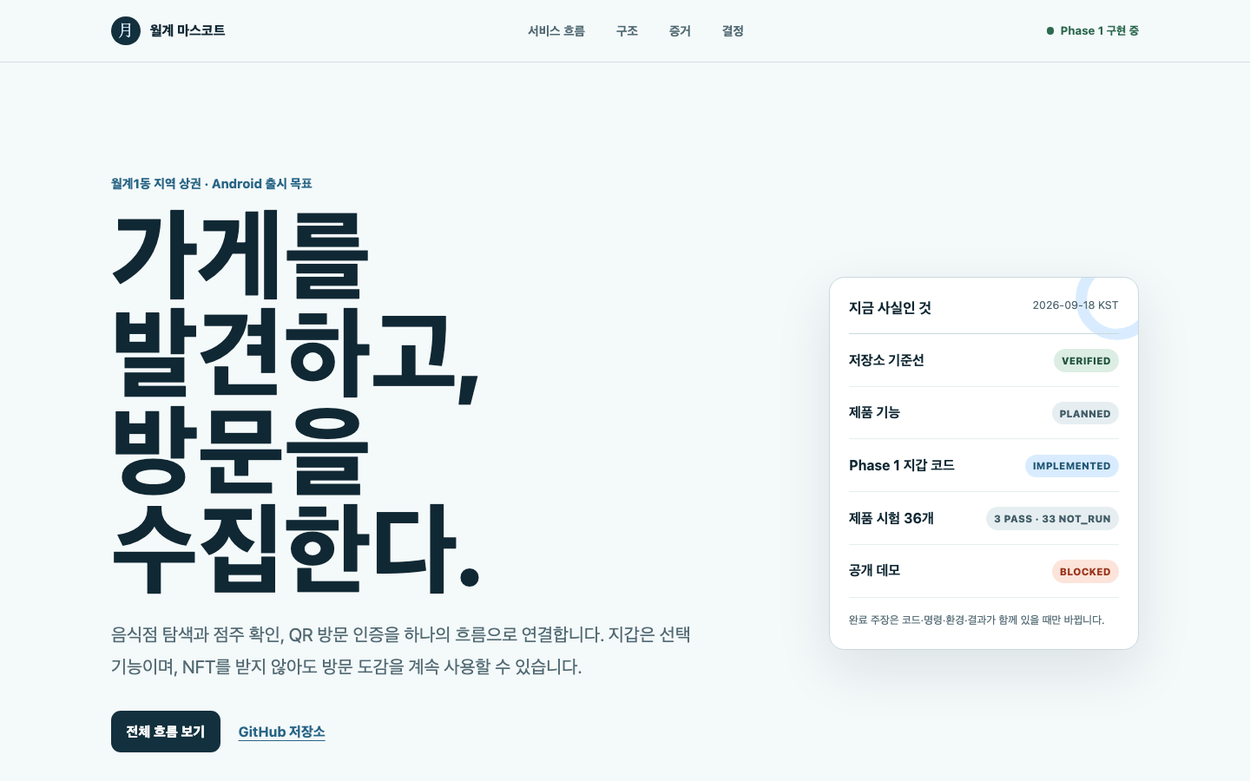
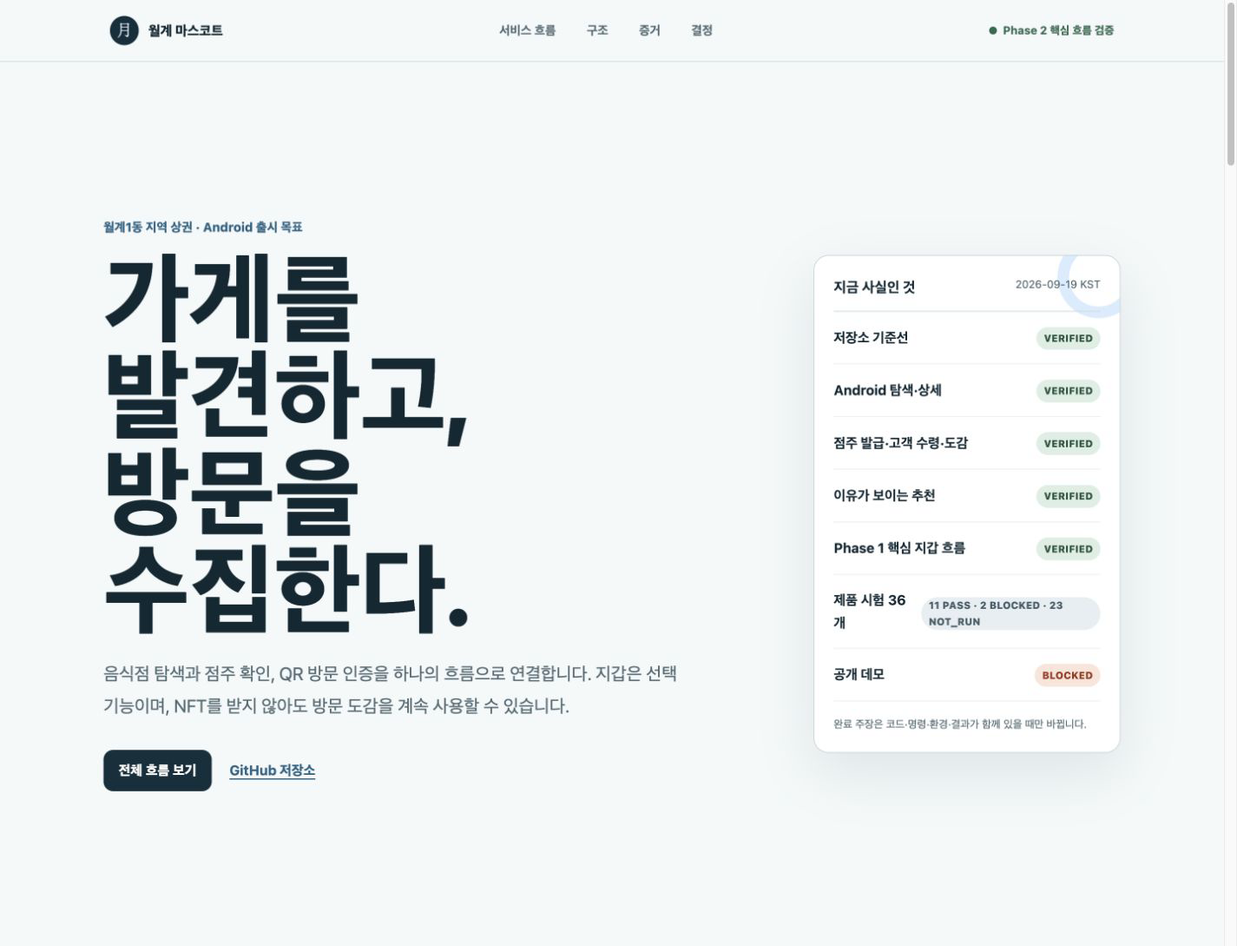
Phase 2 완결 상태를 코드와 같은 근거로 고정한다
추천 실기와 전체 회귀 결과를 README, 평가표, 테스트 원장, 포털과 인수인계에 연결하고 390px 포털 가로 넘침을 제거했다.

Constraint: 현장 실증·카메라 QR·외부 HTTPS·Play 배포는 완료로 표시하지 않는다

Confidence: high

Scope-risk: narrow

Directive: Phase 3는 새 사용자 범위 승인 전 시작하지 않는다

Tested: bootstrap, Korean PR, site structure/accessibility, secret scans, 390x844 in-app browser overflow metrics

Not-tested: public portal URL and real field behavior

diff --git a/docs/index.html b/docs/index.html
@@ -30,7 +30,7 @@
         <a href="#evidence">증거</a>
         <a href="#decisions">결정</a>
       </nav>
-      <span class="header-state"><span aria-hidden="true"></span> Phase 2 구현 중</span>
+      <span class="header-state"><span aria-hidden="true"></span> Phase 2 핵심 흐름 검증</span>
     </header>
 
     <main id="main-content">
@@ -55,7 +55,7 @@
         <aside class="truth-board" aria-labelledby="truth-title">
           <div class="truth-heading">
             <h2 id="truth-title">지금 사실인 것</h2>
-            <span>2026-09-18 KST</span>
+            <span>2026-09-19 KST</span>
           </div>
           <dl>
             <div>
@@ -63,16 +63,16 @@
               <dd><span class="status status-verified">VERIFIED</span></dd>
             </div>
             <div>
-              <dt>점포 카탈로그</dt>
-              <dd><span class="status status-implemented">IMPLEMENTED</span></dd>
+              <dt>Android 탐색·상세</dt>
+              <dd><span class="status status-verified">VERIFIED</span></dd>
             </div>
             <div>
-              <dt>점주·직원 권한 API</dt>
-              <dd><span class="status status-implemented">IMPLEMENTED</span></dd>
+              <dt>점주 발급·고객 수령·도감</dt>
+              <dd><span class="status status-verified">VERIFIED</span></dd>
             </div>
             <div>
-              <dt>일회용 QR 슬롯 API</dt>
-              <dd><span class="status status-implemented">IMPLEMENTED</span></dd>
+              <dt>이유가 보이는 추천</dt>
+              <dd><span class="status status-verified">VERIFIED</span></dd>
             </div>
             <div>
               <dt>Phase 1 핵심 지갑 흐름</dt>
@@ -136,7 +136,7 @@
           <div class="architecture-lane lane-client">
             <h3>사람이 쓰는 화면</h3>
             <div class="node primary-node">Android 앱<small>탐색 · QR · 도감</small></div>
-            <div class="node">점주·직원 웹<small>이용 확인 · QR 발급</small></div>
+            <div class="node">점주·직원 Android 데모<small>권한 확인 · 1회 코드 발급</small></div>
             <div class="node wallet-node">외부 지갑 앱<small>주소 확인 서명만</small></div>
           </div>
           <div class="architecture-lane lane-cloud">
@@ -169,10 +169,13 @@
           <article class="evidence-primary">
             <span class="evidence-number">main</span>
             <h3>검증된 기준선</h3>
-            <p>Phase 0 기준선과 Phase 1 지갑 코드가 CI를 통과해 main에 반영됐습니다.</p>
+            <p>Phase 0 기준선, Phase 1 지갑, Phase 2 탐색·수령·도감 코드가 CI를 통과해 main에 반영됐습니다.</p>
             <div class="evidence-links">
               <a href="https://github.com/2026-KW-HACKATHON/27_MassCOM/pull/2" rel="noreferrer">PR #2</a>
               <a href="https://github.com/2026-KW-HACKATHON/27_MassCOM/pull/10" rel="noreferrer">PR #10</a>
+              <a href="https://github.com/2026-KW-HACKATHON/27_MassCOM/pull/45" rel="noreferrer">PR #45</a>
+              <a href="https://github.com/2026-KW-HACKATHON/27_MassCOM/pull/46" rel="noreferrer">PR #46</a>
+              <a href="https://github.com/2026-KW-HACKATHON/27_MassCOM/pull/47" rel="noreferrer">PR #47</a>
             </div>
           </article>
           <article>

diff --git a/docs/assets/project.css b/docs/assets/project.css
@@ -759,6 +759,8 @@ footer p {
   }
 
   .site-header {
+    grid-template-columns: minmax(0, 1fr) minmax(0, 8rem);
+    gap: 0.5rem;
     min-height: 4rem;
     padding-inline: 0.7rem;
   }
@@ -769,7 +771,34 @@ footer p {
   }
 
   .header-state {
+    min-width: 0;
+    width: auto;
+    justify-self: end;
+    justify-content: flex-end;
+    font-size: 0;
+    line-height: 1.25;
+    text-align: right;
+  }
+
+  .header-state::after {
+    content: "P2 검증";
     font-size: 0.72rem;
+    white-space: nowrap;
+  }
+
+  .truth-board dl > div {
+    gap: 0.55rem;
+    align-items: flex-start;
+  }
+
+  .truth-board dt {
+    min-width: 0;
+    overflow-wrap: anywhere;
+    line-height: 1.45;
+  }
+
+  .truth-board dd {
+    flex: none;
   }
 
   h1 {

diff --git a/docs/EVALUATION_MAP.md b/docs/EVALUATION_MAP.md
@@ -1,18 +1,18 @@
 # 평가 항목 증거 연결
 
-현재는 Phase 2 방문·고정 보상권 기반을 구현 중입니다. 존재하지 않는 실증·발표 증거를 만들지 않으며 `생성 전`, `없음`, `NOT_RUN`도 현재 상태를 추적하는 값입니다.
+Phase 2 핵심 loopback DEMO 흐름은 구현·검증됐습니다. 존재하지 않는 현장 실증·발표 증거를 만들지 않으며 `생성 전`, `없음`, `NOT_RUN`도 현재 상태를 추적하는 값입니다.
 
 | 단계 | 항목 | 배점 | 요구사항 | Issue | PR | 코드·문서 | 테스트 | 실증 | 발표 자료 | 상태 |
 | --- | --- | ---: | --- | --- | --- | --- | --- | --- | --- | --- |
-| 중간 | 논리의 연결성 | 30 | `RQ-001`~`RQ-006` | [#13](https://github.com/2026-KW-HACKATHON/27_MassCOM/issues/13), [#17](https://github.com/2026-KW-HACKATHON/27_MassCOM/issues/17), [#19](https://github.com/2026-KW-HACKATHON/27_MassCOM/issues/19), [#21](https://github.com/2026-KW-HACKATHON/27_MassCOM/issues/21), [#44](https://github.com/2026-KW-HACKATHON/27_MassCOM/issues/44) | [#14](https://github.com/2026-KW-HACKATHON/27_MassCOM/pull/14), [#18](https://github.com/2026-KW-HACKATHON/27_MassCOM/pull/18), [#20](https://github.com/2026-KW-HACKATHON/27_MassCOM/pull/20), [#22](https://github.com/2026-KW-HACKATHON/27_MassCOM/pull/22), [#45](https://github.com/2026-KW-HACKATHON/27_MassCOM/pull/45), [#46](https://github.com/2026-KW-HACKATHON/27_MassCOM/pull/46) | 카탈로그·권한·claim slot·방문·보상·도감 API와 Android 탐색→수령→도감 | Q01·Q02·Q03·Q05·R01·R03·중복 수령 `PASS`, 모바일 40개·Android 전체 흐름 PASS | Android DEMO 목록·상세·수령·도감 증거, 인터뷰·행동 자료 없음 | 3분 원고 생성 전 | `IN_PROGRESS` |
+| 중간 | 논리의 연결성 | 30 | `RQ-001`~`RQ-006` | [#13](https://github.com/2026-KW-HACKATHON/27_MassCOM/issues/13), [#17](https://github.com/2026-KW-HACKATHON/27_MassCOM/issues/17), [#19](https://github.com/2026-KW-HACKATHON/27_MassCOM/issues/19), [#21](https://github.com/2026-KW-HACKATHON/27_MassCOM/issues/21), [#44](https://github.com/2026-KW-HACKATHON/27_MassCOM/issues/44) | [#14](https://github.com/2026-KW-HACKATHON/27_MassCOM/pull/14), [#18](https://github.com/2026-KW-HACKATHON/27_MassCOM/pull/18), [#20](https://github.com/2026-KW-HACKATHON/27_MassCOM/pull/20), [#22](https://github.com/2026-KW-HACKATHON/27_MassCOM/pull/22), [#45](https://github.com/2026-KW-HACKATHON/27_MassCOM/pull/45), [#46](https://github.com/2026-KW-HACKATHON/27_MassCOM/pull/46), [#47](https://github.com/2026-KW-HACKATHON/27_MassCOM/pull/47) | 카탈로그·권한·claim slot·방문·보상·도감·추천 API와 Android 탐색→수령→도감→다음 탐색 | Q01·Q02·Q03·Q05·R01·R03·중복 수령·추천 정책 `PASS`, 모바일 43개·Android 전체 흐름 PASS | Android DEMO 목록·상세·수령·도감·추천 증거, 인터뷰·행동 자료 없음 | 3분 원고 생성 전 | `IN_PROGRESS` |
 | 중간 | 실현 & 상용화 가능성 | 20 | `RQ-007`~`RQ-015` | [#9](https://github.com/2026-KW-HACKATHON/27_MassCOM/issues/9), [#23](https://github.com/2026-KW-HACKATHON/27_MassCOM/issues/23), [#25](https://github.com/2026-KW-HACKATHON/27_MassCOM/issues/25), [#27](https://github.com/2026-KW-HACKATHON/27_MassCOM/issues/27), [#31](https://github.com/2026-KW-HACKATHON/27_MassCOM/issues/31), [#33](https://github.com/2026-KW-HACKATHON/27_MassCOM/issues/33), [#35](https://github.com/2026-KW-HACKATHON/27_MassCOM/issues/35), [#40](https://github.com/2026-KW-HACKATHON/27_MassCOM/issues/40), [#41](https://github.com/2026-KW-HACKATHON/27_MassCOM/issues/41) | [#10](https://github.com/2026-KW-HACKATHON/27_MassCOM/pull/10), [#24](https://github.com/2026-KW-HACKATHON/27_MassCOM/pull/24), [#26](https://github.com/2026-KW-HACKATHON/27_MassCOM/pull/26), [#28](https://github.com/2026-KW-HACKATHON/27_MassCOM/pull/28), [#32](https://github.com/2026-KW-HACKATHON/27_MassCOM/pull/32), [#34](https://github.com/2026-KW-HACKATHON/27_MassCOM/pull/34), [#38](https://github.com/2026-KW-HACKATHON/27_MassCOM/pull/38), [#42](https://github.com/2026-KW-HACKATHON/27_MassCOM/pull/42) | `apps/mobile`, `apps/api`, `docs/PHASE1_WALLET_LINK.md`, `docs/REOWN_PATCH.md` | W01·W02·W03·W06·W09 `PASS`, W04·W05 `BLOCKED` | MetaMask 핵심·W06 PASS, Account 1/2 검증 격리 PASS, 동일 세션·스마트지갑 환경 BLOCKED | 개인정보를 제외한 JSON 실행 증거 | `IN_PROGRESS` |
-| 중간 | 기획 문서의 재현 가능성 | 20 | `RQ-016`~`RQ-018` | [#1](https://github.com/2026-KW-HACKATHON/27_MassCOM/issues/1), [#13](https://github.com/2026-KW-HACKATHON/27_MassCOM/issues/13), [#44](https://github.com/2026-KW-HACKATHON/27_MassCOM/issues/44) | [#2](https://github.com/2026-KW-HACKATHON/27_MassCOM/pull/2), [#14](https://github.com/2026-KW-HACKATHON/27_MassCOM/pull/14), [#45](https://github.com/2026-KW-HACKATHON/27_MassCOM/pull/45) | `README.md`, `.env.example`, `docs/PROJECT_STATE.md`, `docs/TEST_STATUS.md`, Phase 2 설계·계획 | 부트스트랩·API·PostgreSQL·모바일 32개·Android export `PASS` | 외부 HTTPS `NOT_RUN` | 로컬 포털, 공개 URL 없음 | `IN_PROGRESS` |
-| 중간 | 창의성 & 차별성 | 20 | `RQ-001`, `RQ-005` | 기능 Issue 생성 전 | 생성 전 | `docs/PRD.md` | 추천·도감 시험 `NOT_RUN` | 다음 점포 탐색 자료 없음 | 비교 슬라이드 생성 전 | `PLANNED` |
-| 중간 | 발표 | 10 | `RQ-019` | 발표 Issue 생성 전 | 생성 전 | `docs/COMPETITION.md` | 리허설 `NOT_RUN` | 실제 화면 없음 | 3분 원고·시연 순서 생성 전 | `PLANNED` |
+| 중간 | 기획 문서의 재현 가능성 | 20 | `RQ-016`~`RQ-018` | [#1](https://github.com/2026-KW-HACKATHON/27_MassCOM/issues/1), [#13](https://github.com/2026-KW-HACKATHON/27_MassCOM/issues/13), [#44](https://github.com/2026-KW-HACKATHON/27_MassCOM/issues/44) | [#2](https://github.com/2026-KW-HACKATHON/27_MassCOM/pull/2), [#14](https://github.com/2026-KW-HACKATHON/27_MassCOM/pull/14), [#45](https://github.com/2026-KW-HACKATHON/27_MassCOM/pull/45), [#46](https://github.com/2026-KW-HACKATHON/27_MassCOM/pull/46), [#47](https://github.com/2026-KW-HACKATHON/27_MassCOM/pull/47) | `README.md`, `.env.example`, `docs/PROJECT_STATE.md`, `docs/TEST_STATUS.md`, Phase 2 설계·계획·실기 JSON | 부트스트랩·API 31개·PostgreSQL 6개·모바일 43개·Android export `PASS` | 외부 HTTPS `NOT_RUN` | 로컬 포털, 공개 URL 없음 | `IN_PROGRESS` |
+| 중간 | 창의성 & 차별성 | 20 | `RQ-001`, `RQ-005` | [#44](https://github.com/2026-KW-HACKATHON/27_MassCOM/issues/44) | [#46](https://github.com/2026-KW-HACKATHON/27_MassCOM/pull/46), [#47](https://github.com/2026-KW-HACKATHON/27_MassCOM/pull/47) | 앱 수집품/NFT 분리 도감, 이유 코드·미방문 우선 추천 | 도감·추천 자동화와 Android 실기 `PASS` | DEMO 화면 증거, 비교 사용자 자료 없음 | 비교 슬라이드 생성 전 | `IN_PROGRESS` |
+| 중간 | 발표 | 10 | `RQ-019` | 발표 Issue 생성 전 | 생성 전 | `docs/COMPETITION.md`, Android 화면 증거 | 실제 시연 흐름 PASS, 리허설 `NOT_RUN` | DEMO 화면 존재, 현장 영상 없음 | 3분 원고·시연 순서 생성 전 | `IN_PROGRESS` |
 | 최종 | 실현 & 상용화 가능성 | 30 | `RQ-007`~`RQ-015` | [#25](https://github.com/2026-KW-HACKATHON/27_MassCOM/issues/25), 운영 Issue 생성 전 | [#26](https://github.com/2026-KW-HACKATHON/27_MassCOM/pull/26) | `docs/BLOCKERS.md`, `apps/mobile`, 배포 코드 없음 | 실제 지갑 핵심 흐름 PASS, release·외부 HTTPS `NOT_RUN` | 파일럿·실비 자료 없음 | 5분 시연 자료 생성 전 | `IN_PROGRESS` |
-| 최종 | 구현 완성도 & 기술력 | 20 | `RQ-002`~`RQ-018` | [#9](https://github.com/2026-KW-HACKATHON/27_MassCOM/issues/9), [#13](https://github.com/2026-KW-HACKATHON/27_MassCOM/issues/13), [#17](https://github.com/2026-KW-HACKATHON/27_MassCOM/issues/17), [#19](https://github.com/2026-KW-HACKATHON/27_MassCOM/issues/19), [#21](https://github.com/2026-KW-HACKATHON/27_MassCOM/issues/21), [#23](https://github.com/2026-KW-HACKATHON/27_MassCOM/issues/23), [#25](https://github.com/2026-KW-HACKATHON/27_MassCOM/issues/25), [#44](https://github.com/2026-KW-HACKATHON/27_MassCOM/issues/44) | [#10](https://github.com/2026-KW-HACKATHON/27_MassCOM/pull/10), [#14](https://github.com/2026-KW-HACKATHON/27_MassCOM/pull/14), [#18](https://github.com/2026-KW-HACKATHON/27_MassCOM/pull/18), [#20](https://github.com/2026-KW-HACKATHON/27_MassCOM/pull/20), [#22](https://github.com/2026-KW-HACKATHON/27_MassCOM/pull/22), [#24](https://github.com/2026-KW-HACKATHON/27_MassCOM/pull/24), [#26](https://github.com/2026-KW-HACKATHON/27_MassCOM/pull/26), [#45](https://github.com/2026-KW-HACKATHON/27_MassCOM/pull/45), [#46](https://github.com/2026-KW-HACKATHON/27_MassCOM/pull/46) | Android·지갑·카탈로그·권한·claim slot·방문·보상·도감 코드, 계약·Worker 없음 | W01·W02·W03·W09·Q01·Q02·Q03·Q05·R01·R03·Android 탐색/수령/도감 `PASS` | Android 실기기·MetaMask·탐색/수령/도감 증거, 카메라 QR·체인 없음 | 기술 설명 자료 생성 전 | `IN_PROGRESS` |
+| 최종 | 구현 완성도 & 기술력 | 20 | `RQ-002`~`RQ-018` | [#9](https://github.com/2026-KW-HACKATHON/27_MassCOM/issues/9), [#13](https://github.com/2026-KW-HACKATHON/27_MassCOM/issues/13), [#17](https://github.com/2026-KW-HACKATHON/27_MassCOM/issues/17), [#19](https://github.com/2026-KW-HACKATHON/27_MassCOM/issues/19), [#21](https://github.com/2026-KW-HACKATHON/27_MassCOM/issues/21), [#23](https://github.com/2026-KW-HACKATHON/27_MassCOM/issues/23), [#25](https://github.com/2026-KW-HACKATHON/27_MassCOM/issues/25), [#44](https://github.com/2026-KW-HACKATHON/27_MassCOM/issues/44) | [#10](https://github.com/2026-KW-HACKATHON/27_MassCOM/pull/10), [#14](https://github.com/2026-KW-HACKATHON/27_MassCOM/pull/14), [#18](https://github.com/2026-KW-HACKATHON/27_MassCOM/pull/18), [#20](https://github.com/2026-KW-HACKATHON/27_MassCOM/pull/20), [#22](https://github.com/2026-KW-HACKATHON/27_MassCOM/pull/22), [#24](https://github.com/2026-KW-HACKATHON/27_MassCOM/pull/24), [#26](https://github.com/2026-KW-HACKATHON/27_MassCOM/pull/26), [#45](https://github.com/2026-KW-HACKATHON/27_MassCOM/pull/45), [#46](https://github.com/2026-KW-HACKATHON/27_MassCOM/pull/46), [#47](https://github.com/2026-KW-HACKATHON/27_MassCOM/pull/47) | Android·지갑·카탈로그·권한·claim slot·방문·보상·도감·추천 코드, 계약·Worker 없음 | W01·W02·W03·W09·Q01·Q02·Q03·Q05·R01·R03·Android Phase 2 loop `PASS` | Android 실기기·MetaMask·탐색/수령/도감/추천 증거, 카메라 QR·체인 없음 | 기술 설명 자료 생성 전 | `IN_PROGRESS` |
 | 최종 | 지역 문제 적합성 | 20 | `RQ-001`, `RQ-005`, `RQ-020` | 현장 검증 Issue 생성 전 | 생성 전 | `docs/PRD.md` | 현장 수용 기준 `NOT_RUN` | 허락받은 인터뷰·관찰 없음 | 지역 문제 슬라이드 생성 전 | `PLANNED` |
-| 최종 | 창의성 & 차별성 | 20 | `RQ-005`, `RQ-006` | 기능 Issue 생성 전 | 생성 전 | 방문 도감·NFT 분리 요구만 존재 | 비교 검증 `NOT_RUN` | 비교 사용자 자료 없음 | 차별성 슬라이드 생성 전 | `PLANNED` |
+| 최종 | 창의성 & 차별성 | 20 | `RQ-005`, `RQ-006` | [#44](https://github.com/2026-KW-HACKATHON/27_MassCOM/issues/44) | [#46](https://github.com/2026-KW-HACKATHON/27_MassCOM/pull/46), [#47](https://github.com/2026-KW-HACKATHON/27_MassCOM/pull/47) | 앱 수집품/NFT 분리, 설명 가능한 지역 탐색 반복 | 자동화·Android DEMO `PASS`, 비교 검증 `NOT_RUN` | 비교 사용자 자료 없음 | 차별성 슬라이드 생성 전 | `IN_PROGRESS` |
 | 최종 | 참여도 | 5 | `RQ-021` | [#1](https://github.com/2026-KW-HACKATHON/27_MassCOM/issues/1) | [#2](https://github.com/2026-KW-HACKATHON/27_MassCOM/pull/2) | `docs/AI_USAGE.md`, Git 이력 | 설명 가능성 점검 `NOT_RUN` | 팀원별 실제 기록 없음 | 역할 설명 자료 생성 전 | `IN_PROGRESS` |
 | 최종 | 발표 | 5 | `RQ-019` | 발표 Issue 생성 전 | 생성 전 | `docs/COMPETITION.md` | 리허설·장애 대체안 `NOT_RUN` | 실제 시연·영상 없음 | 5분 원고·질의응답 생성 전 | `PLANNED` |
 

diff --git a/docs/PROJECT_STATE.md b/docs/PROJECT_STATE.md
@@ -8,9 +8,9 @@
 | --- | --- |
 | 저장소 | `2026-KW-HACKATHON/27_MassCOM` (`PRIVATE`) |
 | 기본 브랜치 | `main` |
-| 현재 작업 기준 | Phase 2 방문 수령·도감 PR #46 검증 중; 추천·최종 검증 1개 PR 남음 |
-| 현재 검증 기준 | `feat/44-merchant-claims@16c9cf4`, API 27개·PostgreSQL 5개·모바일 40개·Android 전체 흐름 PASS |
-| 최근 main 기준선 | PR #45 merge `ffc1525`, main CI run `35424531021` PASS |
+| 현재 작업 기준 | Phase 2 마지막 추천·최종 검증 PR #47; merge 후 Phase 2에서 정지 |
+| 현재 검증 기준 | `feat/44-recommendations@0af854a`, API 31개·PostgreSQL 6개·모바일 43개·Android 추천→상세 PASS |
+| 최근 main 기준선 | PR #46 merge `dadac5c`, main CI run `35425582837` PASS |
 | Phase 1 종료 Issue | #25 실제 지갑 검증, #27·#31 거절 처리, #33 미설치 지갑 실기 |
 | Phase 1 merge PR | #26 실제 지갑 안정화, #28·#32 거절 처리, #34 미설치 지갑 안내 |
 
@@ -20,7 +20,7 @@
 | --- | --- | --- |
 | Phase 0 저장소·개발 기반 | `VERIFIED` | PR #2·#4·#6·#8, CI PASS |
 | Phase 1 외부 지갑 연결 | `IN_PROGRESS` | API 15개·모바일 24개 자동화 PASS, 핵심 흐름·W06 PASS; W04·W05 외부 지갑 환경 `BLOCKED` |
-| Phase 2 지역 상권 핵심 기능 | `IN_PROGRESS` | 탐색·상세·점주 발급·고객 수령·도감 Android 실기 완료; 추천·최종 통합 남음 |
+| Phase 2 지역 상권 핵심 기능 | `VERIFIED` | loopback DEMO에서 탐색→점주 발급→고객 수령→도감→이유가 보이는 추천→상세 순환 PASS; 카메라 QR·외부 HTTPS는 별도 |
 | Phase 3 NFT | `PLANNED` | 계약·Worker·테스트넷 미착수 |
 | Phase 4 출시 기반 | `PLANNED` | 외부 HTTPS·AAB·탈퇴·복원 미착수 |
 | Phase 5 대회 검증·발표 | `PLANNED` | 현장 검증·영상·제출 버전 미착수 |
@@ -41,6 +41,7 @@
 - Samsung Android 16에서 DEMO 3곳 목록·상세·고정 보상 조건·선택적 지갑 이동
 - 점주 STAFF 권한→1인 코드 발급·재발급→고객 preview/redeem→도감 Android 흐름
 - 계정별 `GET /collection`, 방문·앱 수집품·NFT 상태 분리와 정확한 식사 시각 제외
+- 정원 마감 제외·미방문 우선·다음 고정 보상 설명·한국 날짜별 순위 회전 추천
 - PostgreSQL `merchant_members` migration과 점포별 `OWNER`·`STAFF` 권한 경계
 - 다른 점포·무소속·철회 계정 거절과 철회 즉시 반영 Q05 통합 테스트
 - PostgreSQL `claim_slots` migration과 token SHA-256·주문 참조 HMAC-SHA-256 저장
@@ -62,8 +63,7 @@
 
 ### 진행 중
 
-- PR #46 CI·리뷰·merge
-- 설명 가능한 다음 음식점 추천과 Phase 2 최종 Android 통합
+- PR #47 CI·리뷰·merge와 main CI 확인
 - W04 MetaMask 동일 세션 주소 변경·W05 미지원 스마트지갑 실제 환경 blocker
 
 ### 미구현
@@ -80,11 +80,11 @@
 
 ## 검증·배포 상태
 
-- API 단위 테스트: `PASS` 27개
-- PostgreSQL 18 통합 테스트: `PASS` 5개(카탈로그·도감·Q01~Q03·Q05·R01·R03, 로컬 Docker; PR #46 CI 대기)
+- API 단위 테스트: `PASS` 31개
+- PostgreSQL 18 통합 테스트: `PASS` 6개(카탈로그·도감·추천·Q01~Q03·Q05·R01·R03, 로컬 Docker)
 - v3 필수 36개: W01·W02·W03·W06·W09·Q01·Q02·Q03·Q05·R01·R03 `PASS`, W04·W05 `BLOCKED`, 나머지 23개 `NOT_RUN`
-- 모바일 단위 테스트: `PASS` 40개, typecheck·lint·Android export `PASS`
-- Android: 음식점 탐색→점주 권한→1회 코드→고객 수령→도감 `PASS`; 카메라 QR `NOT_RUN`
+- 모바일 단위 테스트: `PASS` 43개, typecheck·lint·Android export `PASS`
+- Android: 음식점 탐색→점주 권한→1회 코드→고객 수령→도감→추천→상세 `PASS`; 카메라 QR `NOT_RUN`
 - 외부 지갑 핵심 흐름·W06 `PASS`; Account 1/2 재연결 검증 격리 PASS; MetaMask 동일 세션 주소 변경과 미지원 스마트지갑 실기는 `BLOCKED`
 - 공개 HTTPS·GitHub Pages·Play: 미배포
 - NFT·테스트넷: 계약·전송 모두 미실행

diff --git a/README.md b/README.md
@@ -2,7 +2,7 @@
 
 월계1동 음식점을 발견하고, 실제 이용 인증으로 마스코트 도감을 채우며, 원하는 수집품을 외부 지갑에 NFT로 발급받는 Android 서비스입니다.
 
-> 현재 상태: 저장소 기준선 `VERIFIED` · Phase 1 핵심 지갑 흐름 `VERIFIED` · Phase 2 탐색·방문 수령·도감 실기 `VERIFIED`·추천 `IN_PROGRESS` · 필수 시험 11 `PASS` / 2 `BLOCKED` / 23 `NOT_RUN`
+> 현재 상태: 저장소 기준선 `VERIFIED` · Phase 1 핵심 지갑 흐름 `VERIFIED` · Phase 2 탐색→방문 수령→도감→추천 핵심 흐름 `VERIFIED` · 필수 시험 11 `PASS` / 2 `BLOCKED` / 23 `NOT_RUN`
 
 [![월계 마스코트 프로젝트 포털 데스크톱 미리보기](docs/evidence/project-portal-desktop.png)](docs/index.html)
 
@@ -21,6 +21,7 @@
 - [지갑 주소 변경 증거](docs/evidence/android-wallet-address-change.json): 계정별 확인 격리와 MetaMask 세션 한계
 - [음식점 탐색 Android 증거](docs/evidence/android-merchant-discovery.json): 지갑 없는 목록·상세·선택적 지갑 이동
 - [방문 수령·도감 Android 증거](docs/evidence/android-claim-collection.json): 점주 권한·1회 코드·고객 수령·상태 분리
+- [다음 가게 추천 Android 증거](docs/evidence/android-recommendations.json): 미방문 우선·이유 공개·정원 제외·상세 복귀
 - [보안 경계](docs/SECURITY.md): 허용 메서드·nonce·의존성 위험
 - [평가 대응표](docs/EVALUATION_MAP.md): 요구사항·Issue·PR·코드·시험·실증·발표 연결
 
@@ -52,6 +53,7 @@ python3 -m http.server 4173 --directory docs
 | 방문·고정 보상권 | `IMPLEMENTED` | PR #22, QR 소비·KST 일일 진행·첫/3/5회 보상권을 한 DB 트랜잭션으로 처리 |
 | 점주·직원 방문 확인 UI | `VERIFIED` | PR #46, loopback DEMO 계정의 STAFF 권한 확인→1인 코드 발급·재발급 Android 실기 PASS; 운영 인증·별도 웹은 미구현 |
 | 고객 방문 수령·도감 | `VERIFIED` | PR #46, preview→redeem→방문 1·앱 수집품 1·실제 NFT 0 분리 표시와 중복 409 PASS |
+| 다음 음식점 추천 | `VERIFIED` | PR #47, 정원 마감 제외·미방문 우선·다음 고정 보상 설명·한국 날짜별 회전·상세 연결 PASS |
 | 주소 확인 API | `IMPLEMENTED` | ERC-4361 challenge·실제 서명 복구·nonce 소비 15 tests PASS |
 | PostgreSQL | `IN_PROGRESS` | 점포·캠페인·멤버십·claim slot·방문·보상권 migration 구현, 지갑 challenge 영속화는 후속 |
 | Worker | `PLANNED` | Phase 3 전 |
@@ -143,6 +145,7 @@ npm run test:postgres --prefix apps/api
 - Android debug APK: Android 16 16KB AVD와 Samsung SM-S928N 실기기에서 빌드·설치·실행·홈 복귀·콜드 스타트 검증, 저장소에는 미포함
 - Android 음식점 탐색: 로컬 PostgreSQL의 `demo: true` 점포 3곳으로 목록·상세·고정 보상 조건·선택적 지갑 이동 검증
 - Android 방문 수령: loopback DEMO에서 점주 권한→1회 코드→고객 수령→도감 검증; 카메라 QR은 `NOT_RUN`
+- Android 다음 가게: 미방문·다음 고정 보상 이유를 표시하고 기존 상세 탐색으로 복귀하는 순환 검증
 - Android AAB·release package ID·App Link: `NOT_RUN`
 - 실제 Reown 지갑 흐름: MetaMask 핵심·W06 `PASS`; Account 1 검증이 Account 2 재연결에 승계되지 않음 `PASS`; 정확한 W04 동일 세션 변경과 W05 스마트지갑은 `BLOCKED`
 - 테스트넷 계약: 배포 전

diff --git a/docs/HANDOFF.md b/docs/HANDOFF.md
@@ -2,11 +2,11 @@
 
 마지막 갱신 시각: 2026-09-19 KST
 
-기준 브랜치: `feat/44-merchant-claims`
+기준 브랜치: `feat/44-recommendations`
 
-검증 기준 커밋 SHA: `16c9cf4`, PR #46 CI 대기
+검증 기준 커밋 SHA: `0af854a`, PR #47 CI 대기
 
-현재 작업: Phase 2 두 번째 묶음인 점주 발급·고객 수령·도감 PR #46; 추천·최종 통합 1개 PR 남음
+현재 작업: Phase 2 마지막 추천·최종 검증 PR #47; merge 후 Issue #44 종료, Phase 3 미착수
 
 ## 이번 세션에서 완료한 것
 
@@ -22,6 +22,10 @@
 - 점주 STAFF 권한→1회 코드→고객 preview/redeem→도감 Android 실기 PASS
 - 중복 redeem HTTP 409, 방문·보상권 1:1 유지 PASS
 - PR #46 생성, API 27개·PostgreSQL 5개·모바일 40개·typecheck·lint·Android export PASS
+- PR #46 merge `dadac5c`, main CI run `35425582837` PASS
+- 정원 마감 제외·미방문 우선·다음 보상 이유·한국 날짜별 회전 추천 구현
+- Android에서 미방문 2곳→방문 1곳 순서와 추천→상세 복귀 PASS
+- PR #47 생성, API 31개·PostgreSQL 6개·모바일 43개·전체 정적/번들/포털 검사 PASS
 - PR #26 merge `782fef6`, Issue #25 종료, main CI run `35317894775` PASS 확인
 - PR #28 merge `bdeade4`, Issue #27 종료, main CI run `35319672490` PASS 확인
 - Reown project ID와 사용자가 준비·잠금 해제한 MetaMask로 WalletConnect 연결 승인
@@ -96,7 +100,7 @@
 - GitHub Pages는 현재 꺼져 있고 private 저장소의 조직 요금제·공개 정책 확인 및 공개 승인 필요
 - MetaMask 거절 뒤 자동 딥링크 복귀는 관측되지 않았으며 수동 Android 뒤로가기는 PASS
 - Reown 2.0.6 공개 API 부재는 승인된 patch-package 최소 패치로 해소; upstream stable 제공 시 제거
-- PR #46의 GitHub Actions와 필수 리뷰가 끝나기 전에는 merge하지 않음
+- PR #47의 GitHub Actions와 필수 리뷰가 끝나기 전에는 merge하지 않음
 
 ## 사용자 승인이 필요한 사항
 
@@ -105,10 +109,10 @@
 
 ## 다음 세션이 가장 먼저 해야 할 작업
 
-1. PR #46 CI·리뷰를 확인하고 통과하면 merge한 뒤 main CI까지 확인
-2. 세 번째 기능 PR에서 설명 가능한 추천과 Phase 2 최종 Android 통합·문서를 완료
-3. W04·W05 외부 환경 blocker를 Issue #40·#41과 B-010·B-011로 유지
-4. 실제 지갑 실기는 비밀번호·복구 문구·개인키를 공유하거나 기록하지 않음
+1. PR #47 CI·리뷰를 확인하고 통과하면 merge한 뒤 main CI까지 확인
+2. Issue #44가 자동 종료됐는지 확인하고 열린 Phase 2 PR이 없는지 검증
+3. Phase 3 NFT 계약·Worker·테스트넷은 사용자 범위 밖이므로 착수하지 않음
+4. W04·W05 외부 환경 blocker를 Issue #40·#41과 B-010·B-011로 유지
 5. 공개 배포·유료 자원·Play 제출은 별도 승인 없이 실행하지 않음
 
 ## 실행 명령

diff --git a/docs/superpowers/plans/2026-09-19-phase2-local-commerce-flow.md b/docs/superpowers/plans/2026-09-19-phase2-local-commerce-flow.md
@@ -67,7 +67,7 @@
 - [x] Implement collection route separating visit, app collectible, and NFT states.
 - [x] Run API, PostgreSQL, mobile, typecheck, lint, export, secret checks.
 - [x] Commit, push, and create Korean PR #46.
-- [ ] Wait for CI and required review, then merge.
+- [x] Wait for CI and required review, then merge PR #46; main CI run `35425582837` passed.
 
 ### Task 3: Explainable recommendations and end-to-end proof
 
@@ -79,11 +79,12 @@
 - Consumes: public merchants plus authenticated visit progress
 - Produces: ordered recommendations with stable reason codes and Korean explanations
 
-- [ ] Write failing recommendation tests for unvisited priority, campaign availability, and deterministic rotation.
-- [ ] Implement minimal recommendation API with reasons.
-- [ ] Implement loading/error/empty/content recommendation screen.
-- [ ] Run full automated regression.
-- [ ] Exercise merchant issue → customer preview/redeem → collection → recommendation on Android.
-- [ ] Record PASS/FAIL/BLOCKED/NOT_RUN evidence without secrets.
-- [ ] Update evaluation and final Phase 2 handoff in the same functional PR.
-- [ ] Commit, push, create Korean PR, wait for CI, merge, verify main CI.
+- [x] Write failing recommendation tests for unvisited priority, campaign availability, and deterministic rotation.
+- [x] Implement minimal recommendation API with reasons.
+- [x] Implement loading/error/empty/content recommendation screen.
+- [x] Run full automated regression.
+- [x] Exercise merchant issue → customer preview/redeem → collection → recommendation on Android.
+- [x] Record PASS/FAIL/BLOCKED/NOT_RUN evidence without secrets.
+- [x] Update evaluation and final Phase 2 handoff in the same functional PR.
+- [x] Commit, push, and create Korean PR #47.
+- [ ] Wait for CI and required review, then merge and verify main CI.

diff --git a/docs/TEST_STATUS.md b/docs/TEST_STATUS.md
@@ -71,5 +71,6 @@
 | 2026-09-19 KST | `dbab97f`, Issue #40 | Account 1 VERIFIED·disconnect·Account 2 재연결 UNVERIFIED·MetaMask 연결 관리 확인 | Samsung SM-S928N·Android 16·MetaMask 8.11.0 | 계정별 검증 격리 PASS, 정확한 동일 세션 주소 변경은 BLOCKED | `docs/evidence/android-wallet-address-change.json` |
 | 2026-09-19 KST | `935e6d5`, PR #45 | 모바일 32개·typecheck·lint·Android export·목록→상세→선택적 지갑·콜드 재시작 | Samsung SM-S928N·Android 16·PostgreSQL 18 DEMO 3곳 | PASS, 외부 HTTPS `NOT_RUN` | `docs/evidence/android-merchant-discovery.json`; 실제 협약 점포·지갑 주소·기기 일련번호 미기록 |
 | 2026-09-19 KST | `16c9cf4`, PR #46 | API 27개·PostgreSQL 5개·모바일 40개·Android export·점주 발급→고객 수령→도감·중복 수령 | Samsung SM-S928N·Android 16·PostgreSQL 18 loopback DEMO | PASS, 중복 HTTP 409·효과 1:1 유지; 카메라 QR `NOT_RUN` | `docs/evidence/android-claim-collection.json`; 노출된 DEMO token 버전 즉시 폐기, 원문 저장소 미기록 |
+| 2026-09-19 KST | `0af854a`, PR #47 | API 31개·PostgreSQL 6개·모바일 43개·Android export·추천 순서/이유/정원 제외→상세 | Samsung SM-S928N·Android 16·PostgreSQL 18 loopback DEMO | PASS, 현장 사용자 행동·외부 HTTPS `NOT_RUN` | `docs/evidence/android-recommendations.json`; 미방문 2·방문 1·정원 마감 1 DEMO fixture |
 
 Phase 2 카탈로그 통합 테스트 자체는 QR·방문 시험과 분리되어 있습니다. Q01·Q02·Q03·Q05·R01·R03은 각각 실제 PostgreSQL 동시성·권한·원자성 증거로만 `PASS` 처리했으며 Q04·R02는 계속 `NOT_RUN`입니다.

diff --git a/apps/api/README.md b/apps/api/README.md
@@ -1,6 +1,6 @@
 # MassCOM API
 
-ERC-4361(SIWE) 주소 확인, Phase 2 공개 점포·캠페인 카탈로그, 점포별 점주·직원 권한, 1인용 일회용 코드, 방문·고정 보상권·도감 조회를 제공하는 Node.js API입니다.
+ERC-4361(SIWE) 주소 확인, Phase 2 공개 점포·캠페인 카탈로그, 점포별 점주·직원 권한, 1인용 일회용 코드, 방문·고정 보상권·도감·설명 가능한 추천을 제공하는 Node.js API입니다.
 
 ## 실행
 
@@ -23,6 +23,7 @@ npm run start:local
 - `GET /health`
 - `GET /merchants`: 로그인·지갑 없이 활성 점포와 공개 중인 현재 캠페인 조회
 - `GET /collection`: 서버가 확인한 계정의 유효 방문·앱 수집품·NFT 요청 상태 조회; 정확한 식사 시각과 token 제외
+- `GET /recommendations`: 정원 마감 제외·미방문 우선·다음 고정 보상과 한국 날짜 회전을 reason code와 함께 조회
 - `GET /merchant/merchants/:merchantId/context`: 서버가 확인한 계정의 활성 점포 멤버십과 허용 권한 조회
 - `POST /merchant/merchants/:merchantId/claim-slots`: 대상 계정의 1인용 수령 슬롯과 일회용 token 발급
 - `POST /merchant/merchants/:merchantId/claim-slots/:claimSlotId/reissue`: 본문의 `expectedTokenVersion`이 현재 버전과 같을 때만 이전 token을 폐기하고 재발급

diff --git a/docs/PRD.md b/docs/PRD.md
@@ -12,7 +12,7 @@
 | RQ-002 | 점주·직원 이용 확인 | 자기 점포 권한만 사용, 철회 즉시 반영 | `VERIFIED` |
 | RQ-003 | 일회용 QR 방문 인증 | 만료·재발급·동시 수령에서도 효과 1회 | `IN_PROGRESS` |
 | RQ-004 | 보상권과 방문 도감 | 방문, 앱 수집품, 실제 NFT 상태를 분리 | `VERIFIED` |
-| RQ-005 | 다음 음식점 추천 | 추천 이유를 설명하고 미방문 점포 탐색으로 연결 | `PLANNED` |
+| RQ-005 | 다음 음식점 추천 | 추천 이유를 설명하고 미방문 점포 탐색으로 연결 | `VERIFIED` |
 | RQ-006 | 선택적 NFT 발급 | 지갑 없이 핵심 기능 사용, 사용자가 원할 때만 발급 | `IN_PROGRESS` |
 | RQ-007 | 외부 지갑 앱 연결 | 서비스가 지갑·개인키·복구 문구를 만들거나 보관하지 않음 | `VERIFIED` |
 | RQ-008 | 주소 통제 확인 | 계정·주소·도메인·URI·체인·nonce·만료·원문을 서버 검증 | `VERIFIED` |
